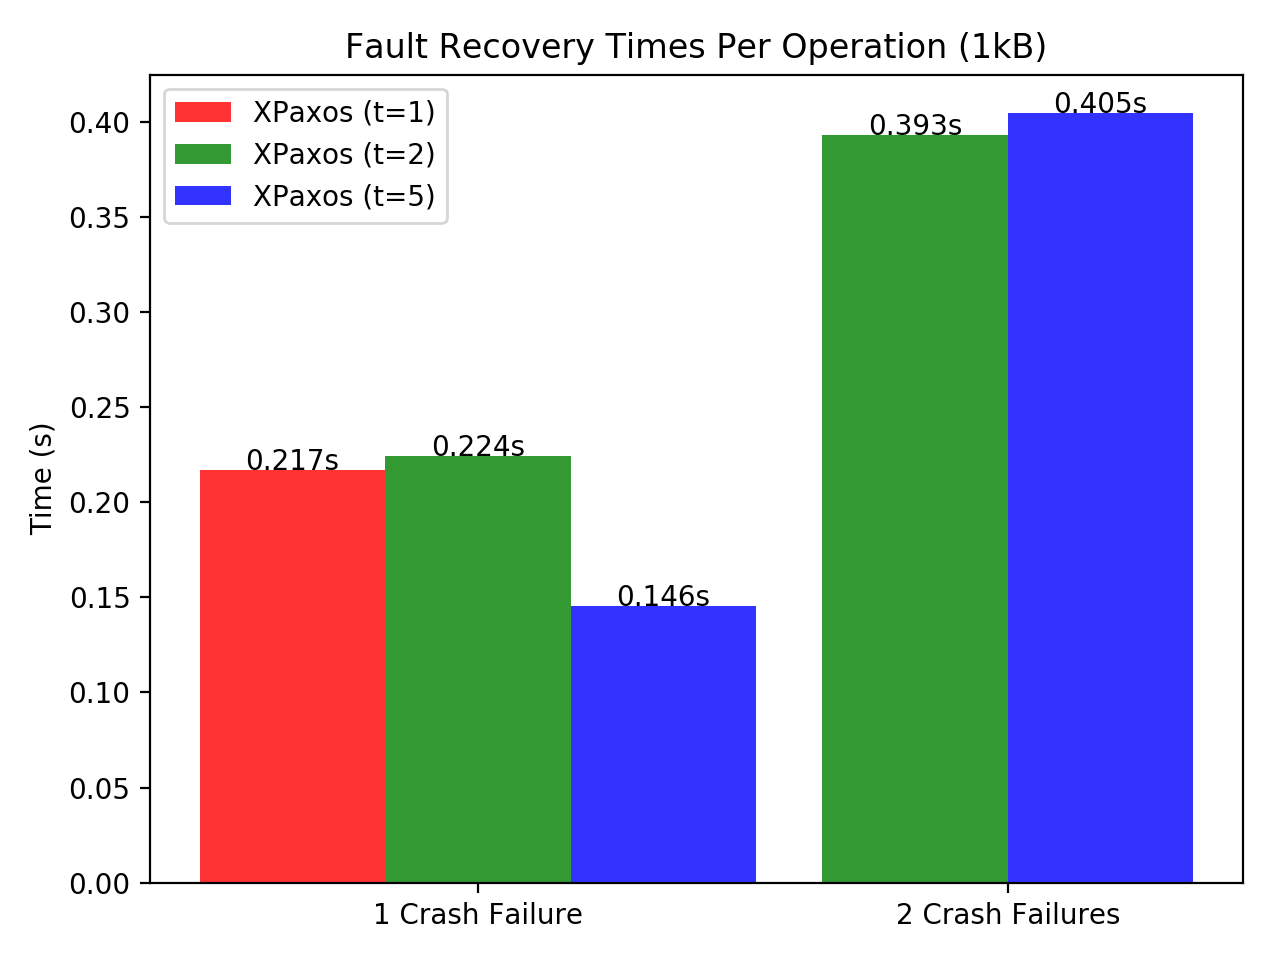
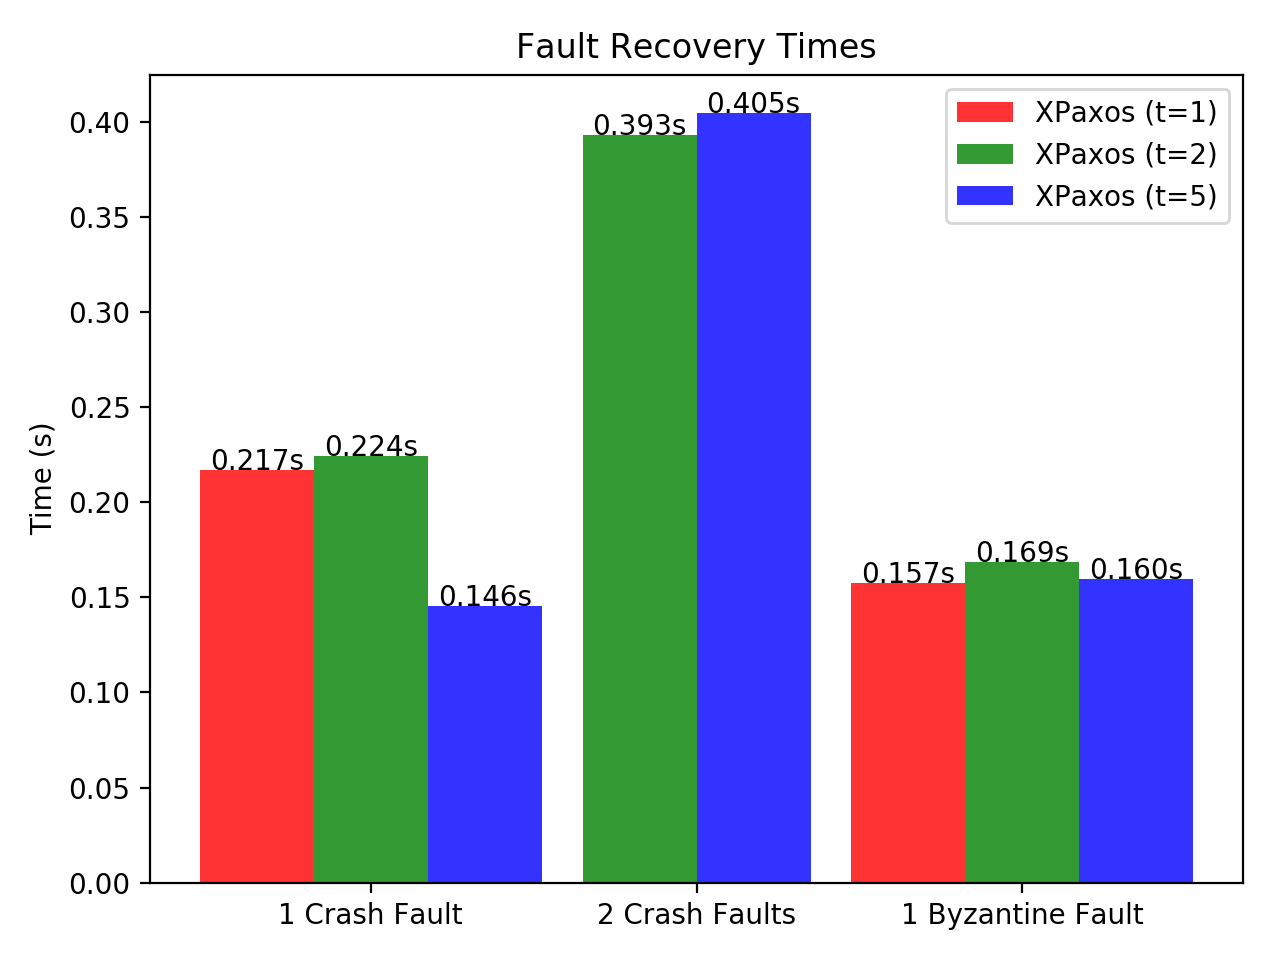
Updated recovery times for Byzantine faults

diff --git a/graphs/plot_graphs.py b/graphs/plot_graphs.py
@@ -72,31 +72,33 @@ def plot_time_vs_throughput(n, filename1, filename2, op_size=262144):
 
 def plot_recovery_times():
 	# Measurements represent mean recovery time from 200 operations, Network delta = 50ms, Op size = 1kB 
-	mean_latency_3_R1 = 216791615.53 / 1e9
-	mean_latency_5_R1 = 224369102.625 / 1e9
-	mean_latency_11_R1 = 145684775.285 / 1e9
-	mean_latency_5_R2 = 393327915.27 / 1e9
-	mean_latency_11_R2 = 404786211.505 / 1e9
+	mean_latency_3_R1, mean_latency_5_R1, mean_latency_11_R1 = 216791615.53 / 1e9, 224369102.625 / 1e9, 145684775.285 / 1e9				
+	mean_latency_5_R2, mean_latency_11_R2 = 393327915.27 / 1e9, 404786211.505 / 1e9
+	mean_latency_3_B, mean_latency_5_B, mean_latency_11_B = 157450797.34 / 1e9, 168631641.81 / 1e9, 159564979.12 / 1e9
 
-	mean_latency_5 = [mean_latency_5_R1, mean_latency_5_R2]
-	mean_latency_11 = [mean_latency_11_R1, mean_latency_11_R2]
+	mean_latency_3 = [mean_latency_3_R1, mean_latency_3_B]
+	mean_latency_5 = [mean_latency_5_R1, mean_latency_5_R2, mean_latency_5_B]
+	mean_latency_11 = [mean_latency_11_R1, mean_latency_11_R2, mean_latency_11_B]
 
 	fig, ax = plt.subplots()
 	bar_width, opacity = 0.35, 0.8
 
-	rects1 = plt.bar(0, mean_latency_3_R1, bar_width, alpha=opacity, color="r", label="XPaxos (t=1)")
+	rects1 = plt.bar([0, 2], mean_latency_3, bar_width, alpha=opacity, color="r", label="XPaxos (t=1)")
 	plt.text(0, mean_latency_3_R1, "{0:.3f}s".format(mean_latency_3_R1), fontsize=10, horizontalalignment="center")
+	plt.text(2, mean_latency_3_B, "{0:.3f}s".format(mean_latency_3_B), fontsize=10, horizontalalignment="center")
 	
-	rects2 = plt.bar([bar_width, 1 + 0.5 * bar_width], mean_latency_5, bar_width, alpha=opacity, color="g", label="XPaxos (t=2)")
+	rects2 = plt.bar([bar_width, 1 + 0.5 * bar_width, 2 + bar_width], mean_latency_5, bar_width, alpha=opacity, color="g", label="XPaxos (t=2)")
 	plt.text(bar_width, mean_latency_5_R1, "{0:.3f}s".format(mean_latency_5_R1), fontsize=10, horizontalalignment="center")
-	plt.text(1 + bar_width / 2, mean_latency_5_R2, "{0:.3f}s".format(mean_latency_5_R2), fontsize=10, horizontalalignment="center")
+	plt.text(1 + 0.5 * bar_width, mean_latency_5_R2, "{0:.3f}s".format(mean_latency_5_R2), fontsize=10, horizontalalignment="center")
+	plt.text(2 + bar_width, mean_latency_5_B, "{0:.3f}s".format(mean_latency_5_B), fontsize=10, horizontalalignment="center")
 
-	rects3 = plt.bar([2 * bar_width, 1 + 1.5 * bar_width], mean_latency_11, bar_width, alpha=opacity, color="b", label="XPaxos (t=5)")
+	rects3 = plt.bar([2 * bar_width, 1 + 1.5 * bar_width, 2 + 2 * bar_width], mean_latency_11, bar_width, alpha=opacity, color="b", label="XPaxos (t=5)")
 	plt.text(2 * bar_width, mean_latency_11_R1, "{0:.3f}s".format(mean_latency_11_R1), fontsize=10, horizontalalignment="center")
 	plt.text(1 + 1.5 * bar_width, mean_latency_11_R2, "{0:.3f}s".format(mean_latency_11_R2), fontsize=10, horizontalalignment="center")
+	plt.text(2 + 2 * bar_width, mean_latency_11_B, "{0:.3f}s".format(mean_latency_11_B), fontsize=10, horizontalalignment="center")
 
-	plt.title("Fault Recovery Times Per Operation (1kB)")
-	plt.xticks(np.arange(2) + bar_width, ["1 Crash Failure", "2 Crash Failures"])
+	plt.title("Fault Recovery Times")
+	plt.xticks(np.arange(3) + bar_width, ["1 Crash Fault", "2 Crash Faults", "1 Byzantine Fault"])
 	plt.ylabel("Time (s)")
 	plt.ylim()
 	plt.legend()
